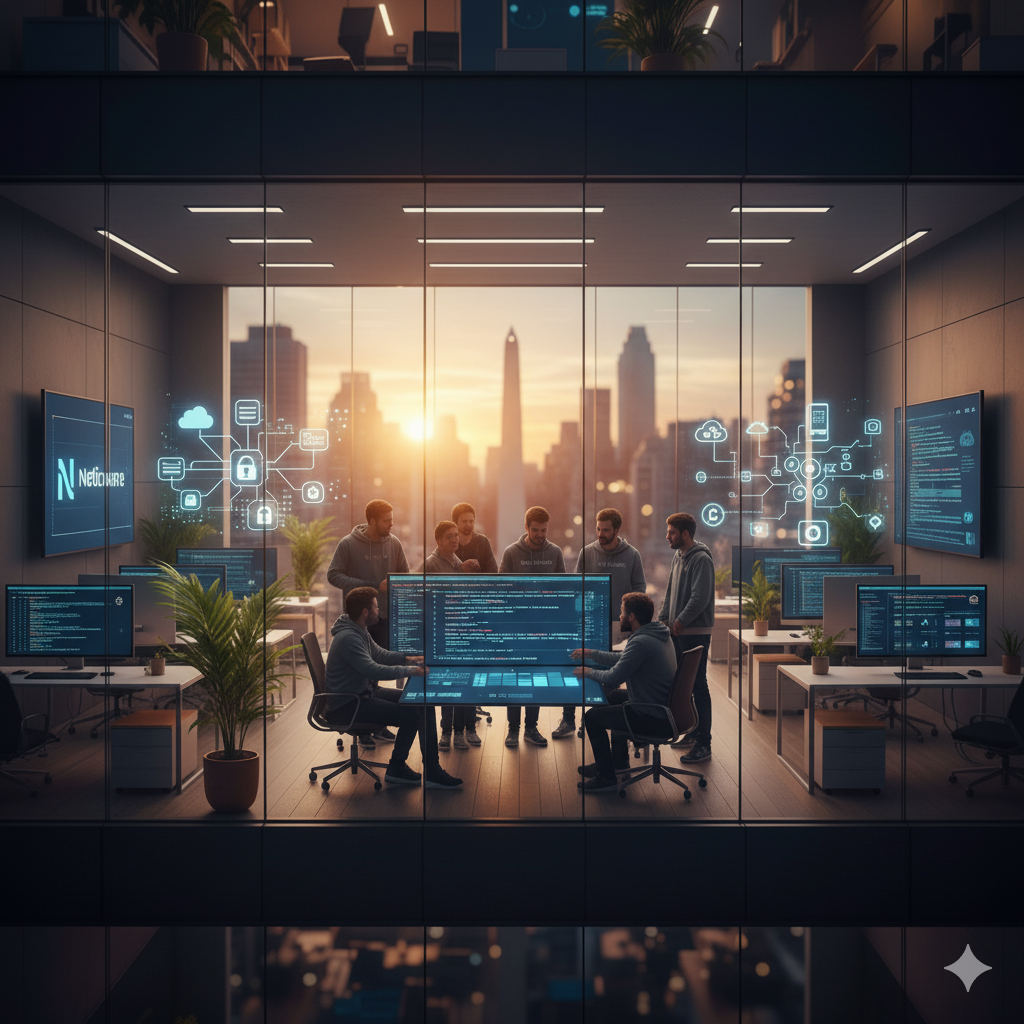
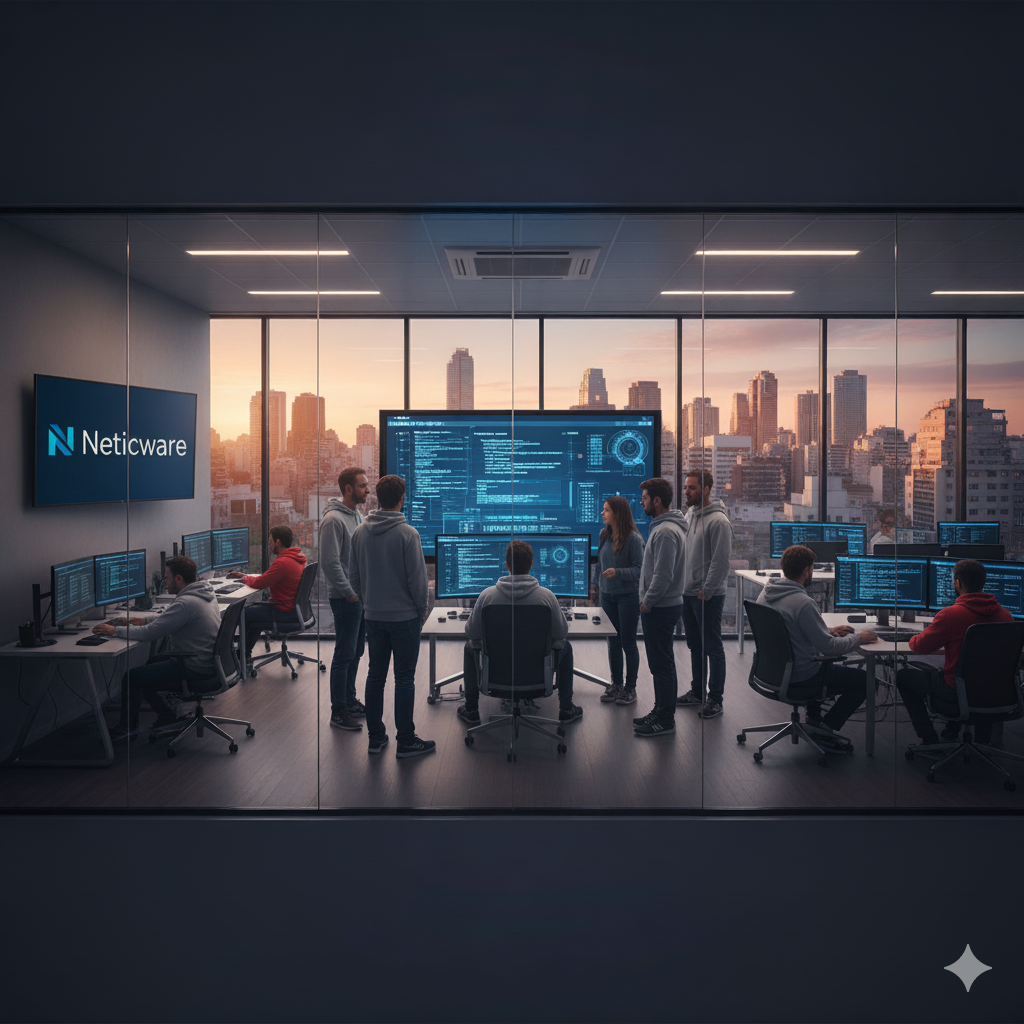
modificando about, diseño

diff --git a/assets/css/about.css b/assets/css/about.css
@@ -1,129 +1,85 @@
-/* ===== ABOUT (Nosotros) – mejora visual sin cambiar HTML ===== */
-:root{
-  
-   --about-bg: url("../images/about-nosotros.png"); /* si tu carpeta es assets/images */
-
-  --about-glass: rgba(10,14,32,.38);
-  --about-stroke: rgba(120,146,255,.26);
-  --about-glow: 0 14px 44px rgba(0,0,0,.28);
-  --brand-grad: linear-gradient(90deg,#63a4ff 0%, #8b5cf6 100%);
-}
-
-/* Sección con fondo + overlays sin tocar el HTML */
-.about{
-  position: relative;
-  padding: clamp(2.25rem, 4vw, 3.25rem) 1.25rem;
-  max-width: none;          /* liberamos ancho para que respire */
-  margin: 0;
-  overflow: clip;
-  isolation: isolate;
-}
-.about::before{
-  content:"";
-  position:absolute; inset:0;
-  background:
-    radial-gradient(1200px 600px at 20% -10%, rgba(99,164,255,.18), transparent 60%),
-    radial-gradient(900px 500px at 100% 10%, rgba(139,92,246,.16), transparent 60%),
-    var(--about-bg);
-  background-size: cover, cover, cover;    /* asegura cover en los 3 layers */
-  background-position: center, center, center;
-  opacity: 0.58;;
-  filter: saturate(1.05) contrast(1.03) brightness(1.06);
-  z-index:-2;
-}
-.about::after{
-  /* velo para mejorar legibilidad del copy */
-  content:"";
-  position: absolute; inset: 0;
-background: linear-gradient(180deg, rgba(7,10,24,.38), rgba(7,10,24,.55));
-  z-index: -1;
-}
-
-/* Card principal (glass) */
-.about__inner{
-  width: min(1100px, 95%);
-  margin: 0 auto;
-  background: var(--about-glass);
-  border: 1px solid var(--about-stroke);
-
-  border-radius: 18px;
-  backdrop-filter: blur(10px);
-  box-shadow: var(--about-glow), inset 0 0 0 1px rgba(120,146,255,.06);
-  padding: clamp(1.25rem, 2.8vw, 2rem);
-  position: relative;
-}
-
-/* Borde con brillo suave al hacer hover (sin JS) */
-.about__inner::after{
-  content:"";
-  position:absolute; inset:-1px;
-  border-radius: inherit;
-  pointer-events:none;
-  background: conic-gradient(from 180deg at 50% 50%, rgba(139,92,246,.18), rgba(99,164,255,.18), rgba(139,92,246,.18));
-  mask: linear-gradient(#000 0 0) content-box, linear-gradient(#000 0 0);
-  -webkit-mask: linear-gradient(#000 0 0) content-box, linear-gradient(#000 0 0);
-  mask-composite: exclude; -webkit-mask-composite: xor;
-  padding: 1px;
-  opacity: 0; transition: opacity .35s ease;
-}
-.about__inner:hover::after{ opacity: .9; }
-
-/* Título con divider y gradiente de marca */
-.about__header h2{
-  margin: 0 0 .65rem 0;
-  font-size: clamp(1.6rem, 3.2vw, 2.1rem);
+.about {
+  padding: 4rem 1rem;
+  background: linear-gradient(180deg, rgba(0,0,0,.65), rgba(0,0,0,.8)),
+              url("../images/about-nosotros.png") center/cover no-repeat;
   color: #fff;
-  letter-spacing: .2px;
-  position: relative;
 }
-.about__header h2::after{
+
+.about__wrap {
+  max-width: 1100px; margin: 0 auto;
+  display: grid; grid-template-columns: 1fr 1fr; gap: 2rem;
+  align-items: start;
+}
+
+.about__text {
+  background: rgba(255,255,255,.05);
+  border: 1px solid rgba(120,146,255,.25);
+  border-radius: 14px;
+  padding: 2rem;
+  transition: background .3s ease, transform .3s ease;
+}
+.about__text:hover {
+  background: rgba(0,0,0,.55);
+  transform: translateY(-2px);
+}
+
+.about__text h2 {
+  font-size: 2rem; margin-bottom: 1rem;
+  position: relative; color: #fff;
+}
+.about__text h2::after {
   content:"";
   display:block;
   width: 72px; height: 3px;
-  margin-top: .5rem;
-  background: var(--brand-grad);
+  margin-top: .4rem;
+  background: linear-gradient(90deg,#63a4ff 0%, #8b5cf6 100%);
   border-radius: 4px;
-  box-shadow: 0 6px 18px rgba(99,164,255,.35);
+  box-shadow: 0 4px 12px rgba(99,164,255,.35);
 }
 
-/* Lead más legible en pantallas grandes y chicas */
-.about__lead{
-  margin: .25rem 0 0 0;
-  color: rgba(244,248,255,.96);
-  font-size: clamp(1rem, 1.15vw, 1.06rem);
-  line-height: 1.68;
+.about__text p {
+  font-size: 1.05rem;
+  margin-bottom: 1.5rem;
+  line-height: 1.65;
 }
 
-/* CTA alineado y mejorado sin cambiar el <a> existente */
-.about__cta{
-  margin-top: 1.35rem;
-  display: flex;
-  justify-content: flex-end;
+.about__highlights {
+  display: grid; gap: 1rem;
 }
-.about__cta .cta-button{
-  display: inline-flex; align-items:center; gap:.5rem;
-  padding: .85rem 1.05rem;
+
+.about__card {
+  background: rgba(255,255,255,.05);
+  border: 1px solid rgba(120,146,255,.25);
   border-radius: 12px;
-  font-weight: 700;
-  color: #0b1026;
-  background: var(--brand-grad);
-  border: 0;
-  box-shadow: 0 10px 24px rgba(31,107,255,.28);
-  transition: transform .15s ease, box-shadow .2s ease, filter .2s ease;
-  text-decoration: none;
+  padding: 1.2rem;
+  box-shadow: 0 6px 18px rgba(0,0,0,.3);
+  transition: background .3s ease, transform .3s ease;
 }
-.about__cta .cta-button:hover{
-  transform: translateY(-1px);
-  filter: brightness(1.03);
-  box-shadow: 0 16px 32px rgba(31,107,255,.34);
+.about__card:hover {
+  background: rgba(0,0,0,.55);
+  transform: translateY(-2px);
 }
 
-/* ===== Responsive ===== */
-@media (max-width: 992px){
-  .about__inner{ padding: 1.25rem; }
-  .about__cta{ justify-content: center; }
+.about__card h3 {
+  margin: 0 0 .5rem; color: #ffd700;
 }
-@media (max-width: 640px){
-  .about{ padding: 2rem 1rem; }
-  .about__header h2::after{ width: 56px; }
+
+.cta-button {
+  display: inline-block;
+  padding: .75rem 1.2rem;
+  border-radius: 10px;
+  background: linear-gradient(135deg,#1F6BFF,#8B5CF6);
+  color: #fff; font-weight: 600;
+  box-shadow: 0 6px 20px rgba(31,107,255,.35);
+  text-decoration: none;
+  transition: transform .15s, box-shadow .15s, filter .15s;
+}
+.cta-button:hover {
+  transform: translateY(-1px);
+  box-shadow: 0 10px 28px rgba(31,107,255,.45);
+  filter: brightness(1.05);
+}
+
+@media (max-width: 768px){
+  .about__wrap { grid-template-columns: 1fr; }
 }

diff --git a/index.html b/index.html
@@ -147,23 +147,37 @@
 </section>
 
 
-  <!-- ABOUT (presentación general) -->
-  <section id="about" class="about">
-    <div class="about__inner">
-      <header class="about__header">
-        <h2>Sobre Neticware</h2>
-        <p class="about__lead">
-          En <strong>Neticware</strong> diseñamos y desarrollamos <em>software a medida</em> que potencia negocios:
-          <strong>aplicaciones web</strong>, <strong>sitios y landing pages</strong>, <strong>blogs</strong>,
-          <strong>plataformas SaaS</strong> y <strong>apps móviles para Android</strong> (no iOS).
-          Priorizamos rendimiento, seguridad y una UX clara para convertir ideas en productos reales.
-        </p>
-      </header>
-      <div class="about__cta">
-        <a href="#contact" class="cta-button">Hablemos de tu proyecto →</a>
-      </div>
+<!-- ABOUT -->
+<section id="about" class="about">
+  <div class="about__wrap">
+    <div class="about__text">
+      <h2>Sobre Neticware</h2>
+      <p>
+        En <strong>Neticware</strong> diseñamos y desarrollamos <em>software a medida</em> que potencia negocios:
+        <strong>aplicaciones web</strong>, <strong>sitios y landing pages</strong>, <strong>blogs</strong>,
+        <strong>plataformas SaaS</strong> y <strong>apps móviles para Android</strong> (no iOS).
+        Priorizamos rendimiento, seguridad y una UX clara para convertir ideas en productos reales.
+      </p>
+      <a href="#contact" class="cta-button">Contactanos →</a>
     </div>
-  </section>
+    <div class="about__highlights">
+      <article class="about__card">
+        <h3>⚡ Rendimiento</h3>
+        <p>Apps rápidas y escalables.</p>
+      </article>
+      <article class="about__card">
+        <h3>🔒 Seguridad</h3>
+        <p>Protección de datos desde el diseño.</p>
+      </article>
+      <article class="about__card">
+        <h3>🎨 UX Clara</h3>
+        <p>Interfaces simples y efectivas.</p>
+      </article>
+    </div>
+  </div>
+</section>
+
+
 
 
 <!-- STACK -->

diff --git a/assets/js/main.js b/assets/js/main.js
@@ -145,3 +145,15 @@ document.addEventListener('DOMContentLoaded', () => {
     });
   });
 })();
+
+
+// **********************************************************************************************//
+// About3 expandible
+document.addEventListener('DOMContentLoaded', () => {
+  const card = document.querySelector('.about3__card');
+  const toggle = document.querySelector('.about3__toggle');
+  toggle.addEventListener('click', () => {
+    card.classList.toggle('expanded');
+    toggle.textContent = card.classList.contains('expanded') ? "Ver menos" : "Ver más";
+  });
+});
